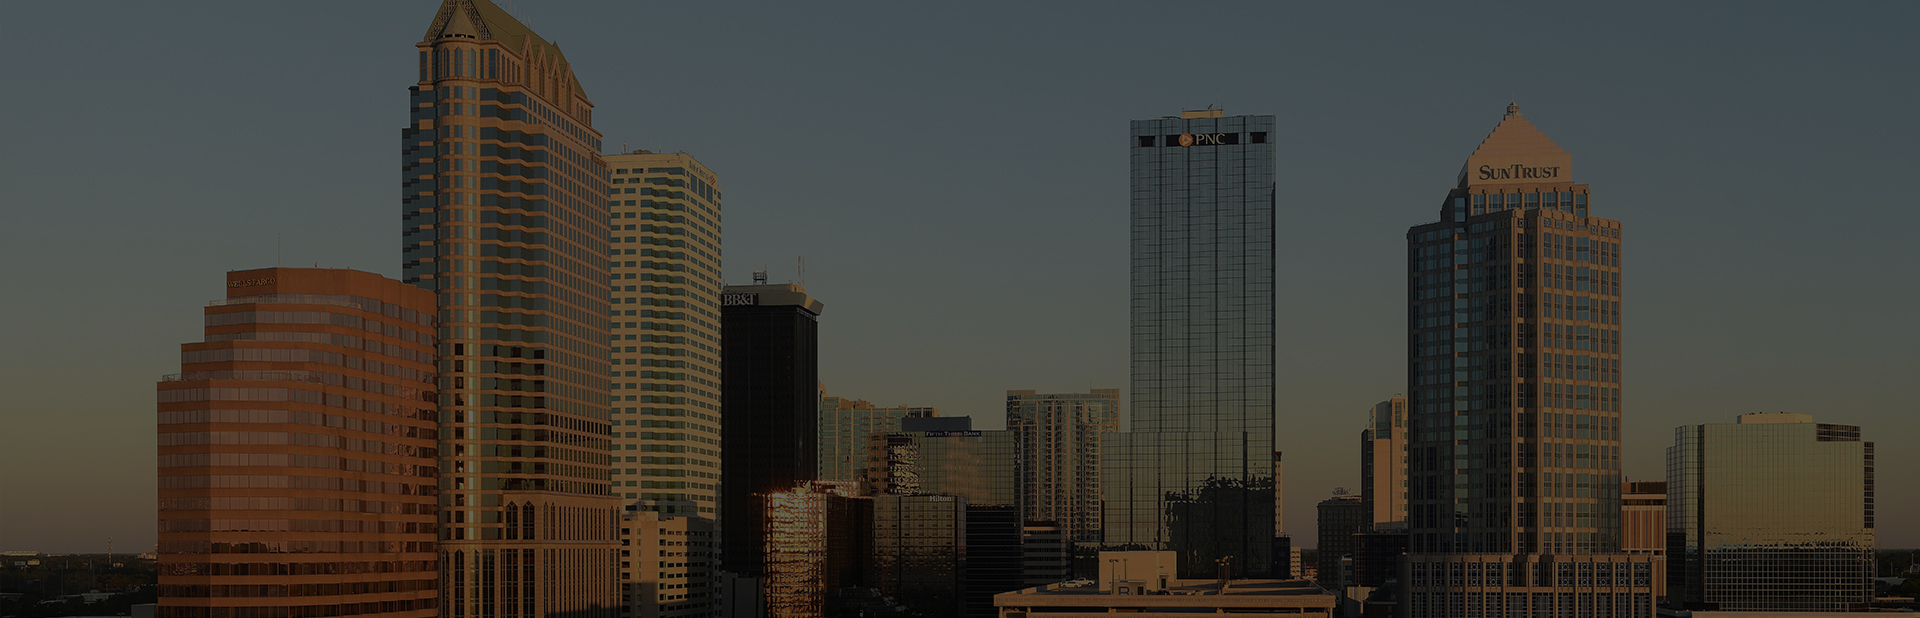
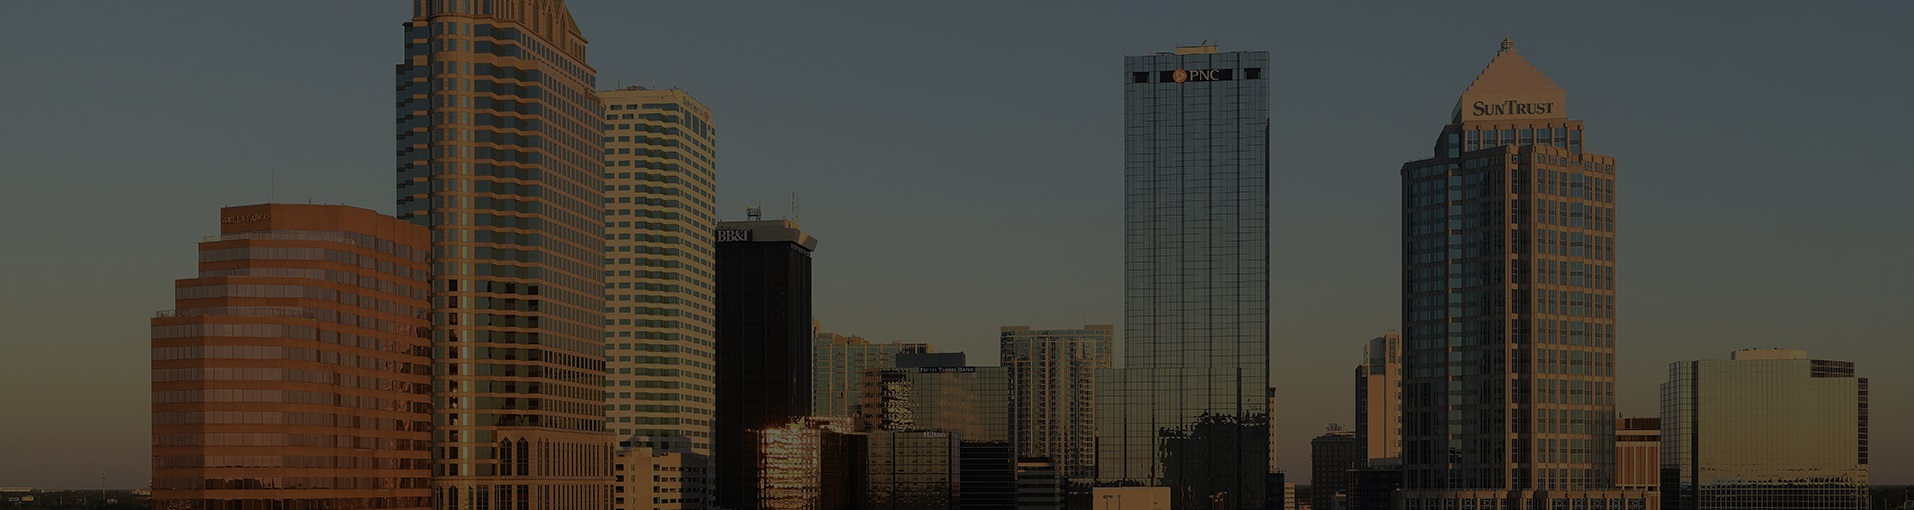
index

Changed region(s): [[0.0, 0.0, 1.0, 1.0], [0.5857, 0.0882, 0.6782, 0.5882], [0.6165, 0.6176, 0.6473, 0.6765]]

diff --git a/index.html b/index.html
@@ -68,9 +68,32 @@
         <div class="container">
             <div class="row">
                 <div class="col-lg-12 ml-auto">
-                    <h1>When it comes to your business, the one thing that shouldn’t keep you up at night is the physical security of your premises.</h1></br></br>
-					<h1>That's where the GSA Security, Inc comes in. We have 10+ years of experience outfitting local properties of all sizes with cutting edge security infrastructure—from access control systems, video surveillance systems, high-end cameras, to repair and replacement services.</h1></br>
-					<h1>We welcome the opportunity to meet with you and provide a no obligation assessment of your security options and vulnerabilities.</h1></br>
+                    <h1>Reducing the risk of some of central Florida's leading organizations</h1>
+					</br></br>
+					<div class="row">
+	                <div class="col-lg-2 ml-auto">
+						<a href="https://www.usf.edu/" target="_blank"><img alt="USF logo" src="img/usflogo.png"></a>
+                    </div>
+					<div class="col-lg-2 ml-auto">
+						<a href="http://www.tampaport.com" target="_blank"><img alt="Tampa Port Authority logo" src="img/porttampa.jpg"></a>
+                    </div>
+	                <div class="col-lg-2 ml-auto">
+						<a href="https://www.pascocountyfl.net/" target="_blank"><img alt="Pasco County logo" src="img/pascocounty.png"></a>
+                    </div>
+					<div class="col-lg-2 ml-auto">
+						<a href="https://www.walkerford.com/" target="_blank"><img alt="Walker Ford logo" src="img/walker.png"></a>
+                    </div>	                
+	                <div class="col-lg-2 ml-auto">
+						<a href="http://www.internationalpaper.com/" target="_blank"><img alt="International Paper logo" src="img/international.png"></a>
+                    </div>
+					<div class="col-lg-2 ml-auto">
+						<a href="https://www.strazcenter.org/" target="_blank"><img alt="Straz Center for Performing Arts logo" src="img/straz.png"></a>
+                    </div>	
+                </div>
+					</br></br>
+					<h1>When it comes to your business, the one thing that shouldn’t keep you up at night is the physical security of your premises.</h1></br></br>
+					<!--<h1>We have 10+ years of experience outfitting local properties of all sizes with cutting edge security infrastructure—from access control systems, video surveillance systems, high-end cameras, to repair and replacement services.</h1></br>
+					bubble them on a tv. We welcome the opportunity to meet with you and provide a no obligation assessment of your security options and vulnerabilities.</h1></br>-->
                 </div>
             </div>
         </div>
@@ -200,7 +223,7 @@
 
 	<section class="featureSection" id="customers">
         <div class="container">
-        <h1>We work with some of the world's leading companies</h1>
+        <h1>Reducing the risk of some of central Florida's leading organizations</h1>
         <div class="container">
             <div class="row">
 	                <div class="col-lg-2 ml-auto">

diff --git a/css/style.css b/css/style.css
@@ -369,7 +369,7 @@ a:hover {
 
 header.masthead {
     background: url(../img/bannersized.jpg) center center no-repeat;
-    height: 618px;
+    height: 510px;
     margin-top: 150px;
     text-align: center;
     padding-top: 100px
